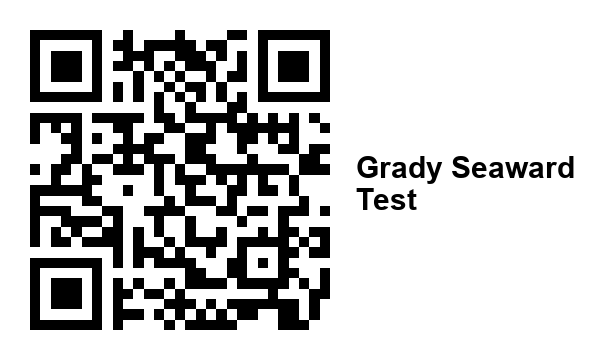
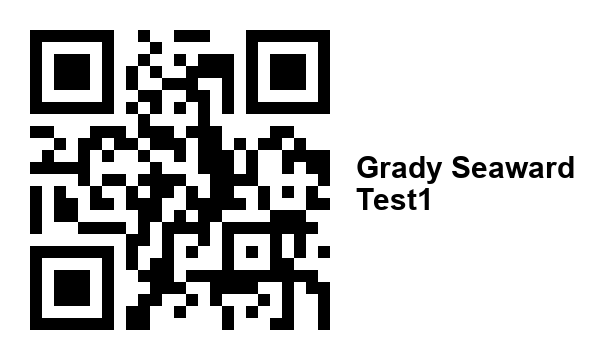
Added gala response email

Changed region(s): [[0.03, 0.0611, 0.57, 0.9167], [0.69, 0.5194, 0.72, 0.5806]]

diff --git a/app.py b/app.py
@@ -1998,6 +1998,14 @@ def load_gala_data():
     return truth_dict
 
 
+def generate_gala_qr_code(submission_id, provided_name):
+    link_url = f"nubuildapp.ca/gala/entry?id={submission_id}"
+    label = CustomLabel(provided_name, link_url)
+    label.save(path='label')
+    return 'label.png'
+
+
+
 @app.route('/gala/register', methods=['GET', 'POST'])
 def gala_register():
     # https://form.jotform.com/262393865563065?displayType=nubuild&tableNumber=Brass
@@ -2037,6 +2045,46 @@ def gala_register():
         name=GALA_SAVE_NAME,
         path=f"{GALA_SAVE_NAME}"
     )
+
+    # send confirmation email
+
+    GRAPH_DRIVE.sendMail(
+        sender=GRAPH_DRIVE.grady_drive,
+        recipients=['gseaward@nubuildinc.ca'],
+        body="Template: Thanks for joining!",
+        attachments=['GALA_SAVE_NAME']
+    )
+
+    generate_gala_qr_code(provided_name="Grady Seaward Test1", submission_id="14")
+
+    attachment = {
+        'name': 'QRCode.png',
+        'path': 'label.png'
+    }
+    body = '''
+        You're all set! Thank you for registering for NuBuild's 10th Anniversary Gala and ALS Charity Fundraiser.
+
+**Event Details**
+📅 Friday, October 16, 2026
+📍 The Terrace, 1680 Creditstone Rd, Vaughan
+🕕 7:00pm
+
+Your QR code / digital ticket is attached — please save it to your phone or print it. You'll need to present it at the door for check-in.
+
+We can't wait to celebrate 10 years with you — and support a great cause along the way.
+
+See you there,
+The NuBuild Team
+        '''
+    body = body.replace('\n', '<br>')
+    GRAPH_DRIVE.sendMail(
+        # sender=GRAPH_DRIVE.grady_drive,
+        subject="Thank you for your RSVP",
+        recipients=['gseaward@nubuildinc.ca'],
+        body=body,
+        attachments=[attachment]
+    )
+
     print(f"Done! : {ret}")
     return redirect(f'/gala/entry?id={submission_id}')
 
@@ -2056,9 +2104,7 @@ def gala_qr_code():
             break
     if submission_id is None:
         return "No submission found, please reach out to gseward@nubuildinc.ca"
-    link_url = f"nubuildapp.ca/gala/entry?id={submission_id}"
-    label = CustomLabel(provided_name, link_url)
-    label.save(path='label')
+    generate_gala_qr_code(provided_name=provided_name, submission_id=submission_id)
     return send_file(
         'label.png',
         as_attachment=True,
